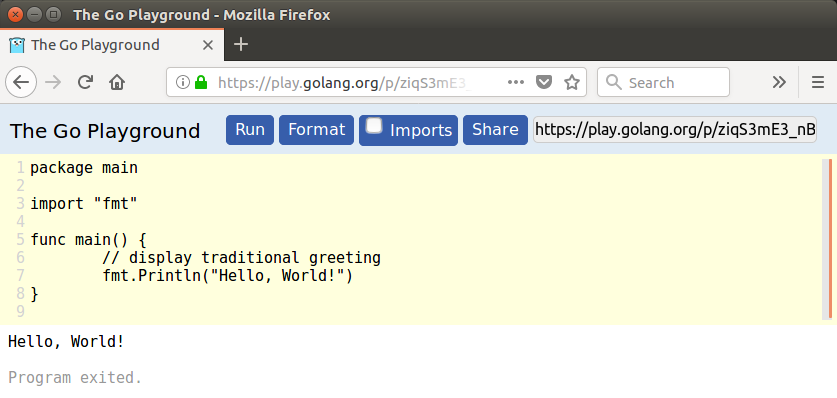
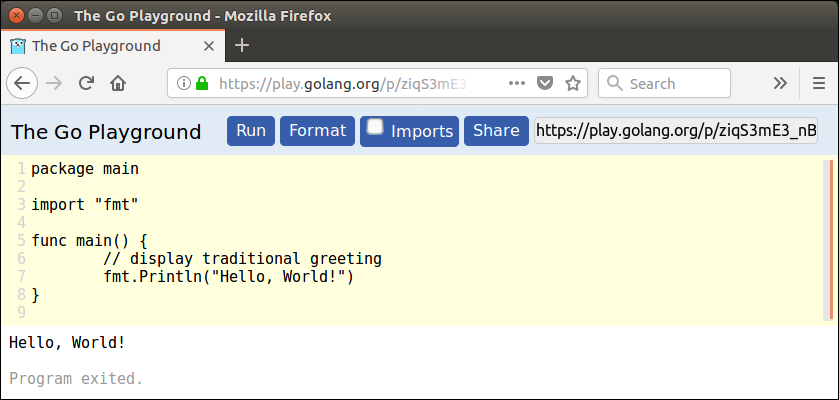
example on go playground

diff --git a/book/ch01.tex b/book/ch01.tex
@@ -92,7 +92,7 @@ The process continues until the subtasks are simple enough to be performed with 
 \label{hello}
 
 Traditionally, the first program you write when learning a new programming language is called the hello world program.
-All it does is display the words ``Hello, World!''\ on the terminal.
+All it does is display the words ``Hello, World!''\ on the screen.
 In Go, it looks like this:
 
 \index{hello.go}
@@ -117,21 +117,16 @@ If you open that address in a browser, you'll see a page similar to Figure~\ref{
 
 \begin{figure}[!ht]
 \begin{center}
-\includegraphics{figs/play-hello.png}
-\caption{The hello world program in the Go playground.}
+\includegraphics[width=1.0\textwidth]{figs/play-hello.png}
+\caption{The hello world program in the Go playground (after running).}
 \label{fig.playhello}
 \end{center}
 \end{figure}
 
-The page you'll see does not have the text {\tt Hello, World!} in that lower area,
+The page you'll see does not have the text {\tt Hello, World!} in that lower white area,
 because you need to run the program to see the output it produces.
 Click on the blue button labeled {\bf Run}. You may briefly see the message {\tt Waiting for remote server...},
-and then the output will be shown:
-
-\begin{stdout}
-Hello, World!
-\end{stdout}
-
+and then the output will appear as pictured. 
 Notice that the output does not include the quotation marks.
 
 
@@ -142,7 +137,7 @@ Go programs are made up of {\em function} definitions, and functions are made up
 A {\bf statement} is a line of code that performs a basic action.
 The usual way of performing actions is by calling functions that are written by others, such as the Go authors.
 So you write functions and your functions, in turn, call other functions.
-In the hello world program, this statement calls the {\bf Println} function to display a message on the screen:
+In the hello world program, this statement calls the \java{Println} function to display a message on the screen:
 
 \begin{lstlisting}
 	fmt.Println("Hello, World!")
@@ -256,9 +251,6 @@ Once a program is compiled, you can execute it repeatedly without further transl
 As a result, compiled programs often run faster than interpreted programs.
 
 Figure~\ref{fig.compiler} shows the steps of the development process.
-We use the command {\tt go build} to run the Go compile.
-It translates {\tt .go} files into binary executable files that store the resulting machine code.
-To run the executable, we just call it by name on the command line.
 
 \begin{figure}[!ht]
 \begin{center}
@@ -267,6 +259,15 @@ To run the executable, we just call it by name on the command line.
 \label{fig.compiler}
 \end{center}
 \end{figure}
+
+The Go playground (shown in Figure~\ref{fig.playhello}) lets us use a Go compiler running on a Google server machine.
+When you hit the {\bf Run} button, the playground Go compiler produces an executable and saves it in the server (if there are no errors).
+The server then runs the executable, and sends its output back to your browser.
+The executable is then discarded, so the Go playground is useful only for quick experiments.
+
+To compile Go programs locally, we need to install the Go distribution, as explained in Appendix XXX. After Go is installed, you can use the {\tt go build} in the terminal.
+
+% LR: 2018-01-10: chose a tone: "you" or "the programmer" (see surrounding paragraphs)
 
 The programmer writes source code in the file {\tt hello.go} and uses {\tt go build} to compile it.
 If there are no errors, the compiler saves the executable in the file {\tt hello} (or {\tt hello.exe}, in Windows).
